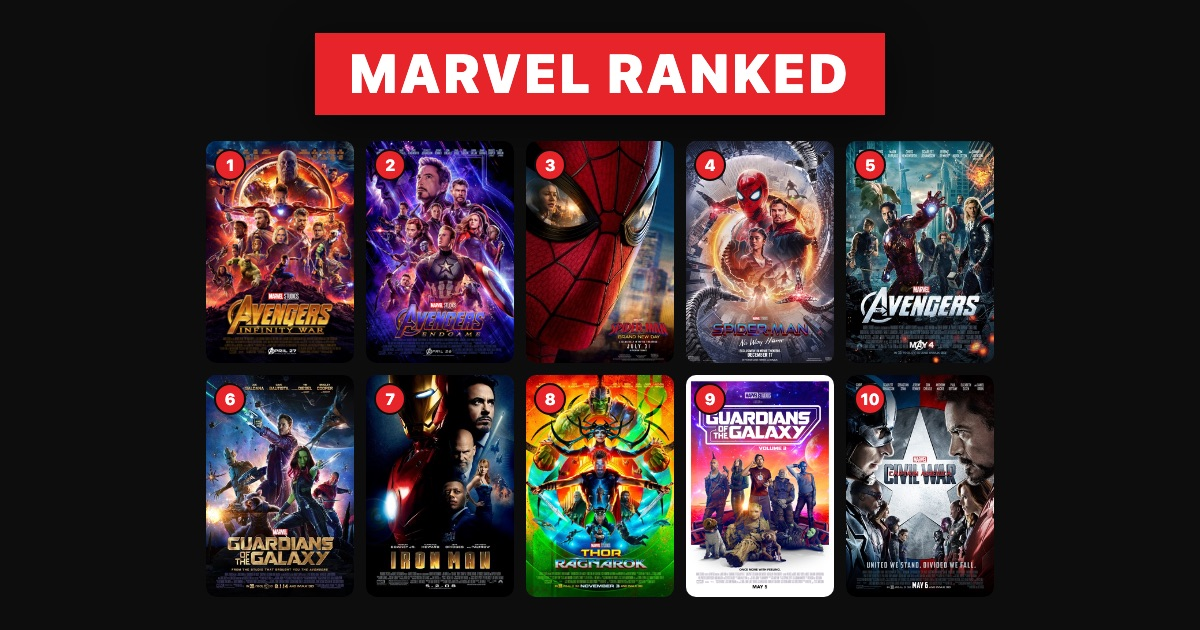
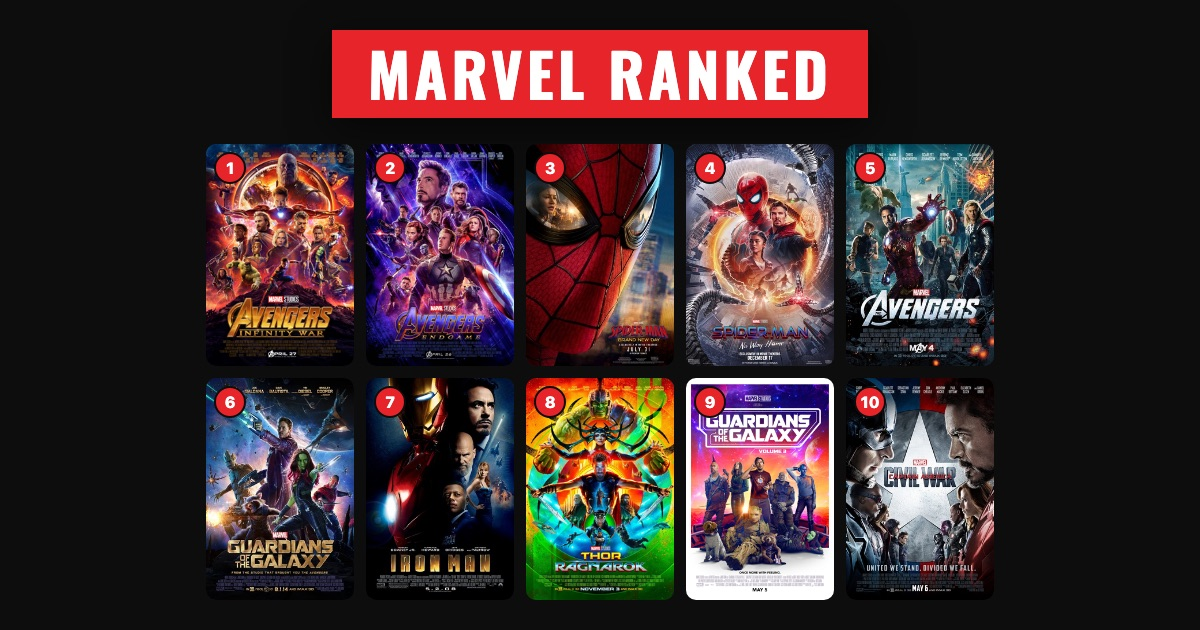
Style pass: display face, capped width, roster in columns
Oswald (OFL, latin subset, 21KB) is self-hosted for the wordmark, tabs,
headings and display numbers; data cells stay on the system font for its
tabular figures. The page caps at 1440px, the character rosters flow into
columns with a drag hit-test that reads in reading order, and each row puts
the actor under the name instead of across the row from it.

Changed region(s): [[0.1542, 0.0302, 0.8325, 0.9651]]

diff --git a/styles.css b/styles.css
@@ -1,5 +1,17 @@
 * { margin: 0; padding: 0; box-sizing: border-box; }
 
+/* Oswald (SIL Open Font License), latin subset, self-hosted: the site has no
+   build step and no CDN, and a condensed face is what carries the comic-book
+   feel in the wordmark and headings. Data cells stay on the system font,
+   whose tabular figures keep score columns aligned. */
+@font-face {
+  font-family: "Oswald";
+  src: url("fonts/oswald-latin.woff2") format("woff2");
+  font-weight: 400 700;
+  font-style: normal;
+  font-display: swap;
+}
+
 :root {
   color-scheme: dark;
   --page: #0d0d0d;
@@ -12,6 +24,7 @@
   --border: rgba(255, 255, 255, 0.10);
   --track: #262625;
   --marvel-red: #e62429;
+  --display: "Oswald", "Haettenschweiler", "Arial Narrow", system-ui, sans-serif;
 }
 
 body {
@@ -21,12 +34,25 @@ body {
   line-height: 1.5;
 }
 
-.wrap { margin: 0 auto; padding: 32px 48px 80px; }
+/* Anything that answers a pointer answers at the same speed, and keyboard
+   users get a ring the mouse never shows. */
+button, a, .card, .row .cellbox, .tile, .segbtn, .avgchip {
+  transition: filter 0.12s ease, color 0.12s ease, background-color 0.12s ease,
+    border-color 0.12s ease;
+}
+:focus-visible { outline: 2px solid var(--marvel-red); outline-offset: 2px; border-radius: 4px; }
+@media (prefers-reduced-motion: reduce) {
+  *, *::before, *::after { transition-duration: 0.01ms !important; animation-duration: 0.01ms !important; }
+}
+
+/* Cap the page so the layout stops sprawling on wide monitors — the
+   per-view widths below then read as deliberate rather than arbitrary. */
+.wrap { max-width: 1440px; margin: 0 auto; padding: 32px 48px 80px; }
 
 /* Hero header: poster-collage banner with the title centered on top */
 header.site {
   position: relative; display: flex; align-items: center; justify-content: center;
-  min-height: 190px; border-radius: 14px; overflow: hidden;
+  min-height: 190px; border-radius: 12px; overflow: hidden;
   border: 1px solid var(--border); background: #131318;
 }
 .hero-bg {
@@ -43,11 +69,12 @@ header.site::after {
 header.site h1 {
   position: relative; z-index: 2; text-align: center;
   background: var(--marvel-red); color: #fff;
-  font-size: 40px; font-weight: 900; text-transform: uppercase;
-  letter-spacing: 0.06em; line-height: 1.1; padding: 8px 26px 10px;
+  font-family: var(--display);
+  font-size: 44px; font-weight: 700; text-transform: uppercase;
+  letter-spacing: 0.07em; line-height: 1.15; padding: 6px 28px 8px;
   box-shadow: 0 10px 40px rgba(0, 0, 0, 0.6);
 }
-@media (max-width: 700px) { header.site h1 { font-size: 26px; padding: 6px 16px 8px; } }
+@media (max-width: 700px) { header.site h1 { font-size: 28px; padding: 4px 16px 6px; } }
 
 /* Account chip: sits on the hero banner, above the poster collage */
 .account {
@@ -71,15 +98,28 @@ header.site h1 {
 nav.tabs { display: flex; gap: 4px; margin: 24px 0 20px; border-bottom: 1px solid var(--grid); flex-wrap: wrap; }
 nav.tabs button {
   background: none; border: none; border-bottom: 2px solid transparent;
-  padding: 8px 14px; font-size: 14px; color: var(--text-secondary); cursor: pointer;
+  padding: 8px 14px; color: var(--text-secondary); cursor: pointer;
+  font-family: var(--display); font-size: 15px; letter-spacing: 0.02em;
 }
 nav.tabs button:hover { color: var(--text-primary); }
 nav.tabs button.active { color: var(--text-primary); border-bottom-color: var(--text-primary); font-weight: 600; }
 
 /* Ranking rows — spreadsheet-style colored cells */
 .panel { background: var(--surface); border: 1px solid var(--border); border-radius: 12px; padding: 18px; }
-.panel h2 { font-size: 16px; margin-bottom: 12px; }
-.panel h2 .note { font-weight: 400; font-size: 13px; color: var(--text-muted); }
+/* Headings carry a title, action chips and a note; laid out inline they broke
+   mid-phrase and split the chip group. As a wrapping flex row the chips stay
+   together, and a note that shares its heading with buttons takes its own
+   line instead of threading between them. */
+.panel h2 {
+  display: flex; flex-wrap: wrap; align-items: baseline; gap: 4px 8px;
+  font-family: var(--display); font-size: 18px; font-weight: 600;
+  letter-spacing: 0.01em; margin-bottom: 12px;
+}
+.panel h2:has(button) .note { flex-basis: 100%; }
+.panel h2 .note {
+  font-family: system-ui, -apple-system, "Segoe UI", sans-serif;
+  font-weight: 400; font-size: 13px; color: var(--text-muted);
+}
 .row {
   display: grid; grid-template-columns: 30px 1fr;
   gap: 8px; align-items: center; padding: 2px 0; font-size: 14px;
@@ -269,13 +309,13 @@ button.cardbtn:hover { color: var(--text-primary); }
 @media (max-width: 600px) { .tiles { grid-template-columns: repeat(2, 1fr); } }
 .tile { background: var(--surface); border: 1px solid var(--border); border-radius: 12px; padding: 14px 16px; }
 .tile .label { font-size: 12px; color: var(--text-muted); }
-.tile .value { font-size: 26px; font-weight: 600; line-height: 1.25; margin: 2px 0; }
+.tile .value { font-family: var(--display); font-size: 30px; font-weight: 600; line-height: 1.2; margin: 2px 0; }
 .tile .sub { font-size: 12px; color: var(--text-secondary); display: flex; align-items: center; gap: 6px; }
 .tile .sub .dot { width: 8px; height: 8px; border-radius: 50%; flex-shrink: 0; }
 
 /* Streaks: the run itself, as the posters, with each film's score on it */
 .runstrip { display: flex; flex-wrap: wrap; gap: 6px; margin-top: 8px; }
-.runstrip figure { position: relative; width: 58px; border-radius: 7px; overflow: hidden; }
+.runstrip figure { position: relative; width: 58px; border-radius: 6px; overflow: hidden; }
 .runstrip img, .runstrip .noimg {
   display: block; width: 100%; aspect-ratio: 2 / 3; object-fit: cover; background: #1c1c24;
 }
@@ -293,7 +333,7 @@ button.cardbtn:hover { color: var(--text-primary); }
 
 /* How you grade: the two spreads side by side, then the biggest disagreement */
 .gradepair { display: flex; gap: 28px; margin: 4px 0 8px; }
-.gradepair .big { font-size: 26px; font-weight: 600; display: block; line-height: 1.25; }
+.gradepair .big { font-family: var(--display); font-size: 30px; font-weight: 600; display: block; line-height: 1.2; }
 .gradepair .sub { font-size: 12px; color: var(--text-muted); }
 .taker { display: flex; align-items: center; gap: 10px; margin-top: 8px; }
 .taker img { width: 42px; aspect-ratio: 2 / 3; object-fit: cover; border-radius: 6px; flex-shrink: 0; }
@@ -365,22 +405,30 @@ button.cardbtn:hover { color: var(--text-primary); }
 .phase-block h3 .note { font-weight: 400; color: var(--text-muted); }
 
 /* Hand-ranked rosters — Spider-Man, Heroes, Villains: group-colored picture
-   cards, drag to reorder */
-.rosterwrap { max-width: 560px; margin: 0 auto; }
-.rosterlist { display: grid; gap: 6px; }
-.rosterrow { display: grid; grid-template-columns: 36px 1fr 18px; gap: 8px; align-items: center; }
+   cards, drag to reorder. Fifty-seven heroes in one column is 4,800px of
+   scrolling with most of a desktop screen empty, so the list flows into
+   columns as the window allows; the drag hit-test handles the grid. */
+.rosterwrap { max-width: 1180px; margin: 0 auto; }
+.rosterlist { display: grid; gap: 6px; grid-template-columns: minmax(0, 1fr); }
+@media (min-width: 860px) { .rosterlist { grid-template-columns: repeat(2, minmax(0, 1fr)); } }
+@media (min-width: 1240px) { .rosterlist { grid-template-columns: repeat(3, minmax(0, 1fr)); } }
+.rosterrow { display: grid; grid-template-columns: 30px 1fr 18px; gap: 8px; align-items: center; }
 .rosterrow .rank {
-  text-align: right; font-size: 18px; font-weight: 800;
+  text-align: right; font-family: var(--display); font-size: 20px; font-weight: 600;
   color: var(--text-muted); font-variant-numeric: tabular-nums;
 }
+/* Name over actor: pinned to opposite ends of a wide row they read as two
+   unrelated columns. */
+.rosterrow .card .meta { flex: 1; min-width: 0; padding: 4px 0; }
+.rosterrow .card .name { display: block; white-space: normal; }
 .rosterrow .card .era {
-  font-size: 11px; font-weight: 600; margin-right: 10px; text-align: right;
-  max-width: 40%; overflow: hidden; text-overflow: ellipsis; white-space: nowrap;
+  display: block; font-size: 11px; font-weight: 600; color: var(--text-muted);
+  overflow: hidden; text-overflow: ellipsis; white-space: nowrap;
 }
 .rosterrow.dragging .card { outline: 2px dashed rgba(255, 255, 255, 0.55); }
 /* Character portraits are near-4:3 tall and lead with a face — give them a
    wider cell than a poster so they aren't cropped to a sliver */
-.rosterlist.portraits .card img { width: 58px; aspect-ratio: 3 / 4; }
+.rosterlist.portraits .card img { width: 48px; aspect-ratio: 3 / 4; }
 /* Group color key under a character roster */
 .rosterkey { display: inline-flex; flex-wrap: wrap; gap: 4px 10px; margin-left: 4px; }
 .rosterkey span { display: inline-flex; align-items: center; gap: 4px; white-space: nowrap; }
@@ -403,8 +451,8 @@ button.cardbtn:hover { color: var(--text-primary); }
    footer, which is a note to the site's owner rather than to a visitor */
 body.showcase-on nav.tabs, body.showcase-on footer { display: none; }
 .showcase-sub {
-  text-align: center; color: var(--text-muted);
-  font-size: 12px; font-weight: 700; letter-spacing: 0.16em; margin-bottom: 16px;
+  text-align: center; color: var(--text-muted); font-family: var(--display);
+  font-size: 14px; font-weight: 600; letter-spacing: 0.18em; margin-bottom: 16px;
 }
 .showcase figure {
   position: relative; border-radius: 10px; overflow: hidden; background: #1c1c24;
@@ -429,7 +477,8 @@ body.showcase-on nav.tabs, body.showcase-on footer { display: none; }
 .showcase-cta { text-align: center; margin-top: 26px; }
 .showcase-cta button {
   background: var(--marvel-red); color: #fff; border: none; border-radius: 999px;
-  font: inherit; font-size: 15px; font-weight: 700; padding: 10px 28px; cursor: pointer;
+  font: 600 16px/1.4 var(--display); letter-spacing: 0.03em;
+  padding: 10px 28px; cursor: pointer;
 }
 .showcase-cta button:hover { filter: brightness(1.1); }
 .showcase-cta .fineprint { margin-top: 12px; }

diff --git a/app.js b/app.js
@@ -287,12 +287,15 @@ const isUpcomingShow = (t) => /season\b/i.test(t) || UPCOMING_SHOW_HINTS.include
 // blue 7, indigo 8 — with purple at 9 and pink reserved for perfect 10s.
 // Every tier boundary is a clear hue change rather than a subtle shade shift.
 // Ink is chosen per step for contrast.
+// A rainbow can't also run light-to-dark, so hue alone can't say "higher".
+// The yellows were the brightest cells on the page at 3 and 4, shouting over
+// the 9s and 10s; they're toned down so the top of the scale stays loudest.
 const RATING_COLORS = [
   { bg: "#7f1d1d", ink: "#ffffff" }, // 0  dark red
   { bg: "#cf3535", ink: "#ffffff" }, // 1  red
   { bg: "#ef8146", ink: "#1a1a19" }, // 2  orange
-  { bg: "#f9cb5f", ink: "#1a1a19" }, // 3  yellow
-  { bg: "#c9c353", ink: "#1a1a19" }, // 4  yellow-green
+  { bg: "#e8b84f", ink: "#1a1a19" }, // 3  yellow
+  { bg: "#b8b04a", ink: "#1a1a19" }, // 4  yellow-green
   { bg: "#3cbb54", ink: "#1a1a19" }, // 5  bright green
   { bg: "#5aa7e6", ink: "#1a1a19" }, // 6  light blue
   { bg: "#2a78d6", ink: "#ffffff" }, // 7  blue
@@ -495,11 +498,18 @@ function makeDraggable(containers, onCommit) {
             return !best || d < best.d ? { z, d } : best;
           }, null).z;
         }
-        const candidates = [...target.children].filter((c) => c !== row && !c.classList.contains("fixed"));
-        const next = candidates.find((c) => {
-          const b = c.getBoundingClientRect();
-          return ev.clientY < b.top + b.height / 2;
-        }) ?? null;
+        const candidates = [...target.children]
+          .filter((c) => c !== row && !c.classList.contains("fixed"))
+          .map((c) => ({ c, b: c.getBoundingClientRect() }));
+        // A list laid out in columns needs the pointer read in reading order:
+        // a row further down always comes later, and within the same band the
+        // one to the right does. Single-column lists have no second column to
+        // confuse, so they keep the plain midpoint test.
+        const columns = candidates.some(({ b }, i) => i && Math.abs(b.top - candidates[i - 1].b.top) < 2);
+        const next = (candidates.find(({ b }) => columns
+          ? b.top + b.height / 2 - ev.clientY > b.height / 2 ||
+            (Math.abs(b.top + b.height / 2 - ev.clientY) <= b.height / 2 && b.left + b.width / 2 > ev.clientX)
+          : ev.clientY < b.top + b.height / 2)?.c) ?? null;
         if (row.parentElement !== target || next !== row.nextElementSibling) target.insertBefore(row, next);
       };
       const finish = (ev) => {
@@ -1502,8 +1512,10 @@ function renderRoster(cfg) {
           <span class="rank">${i + 1}</span>
           <div class="card" style="--phase:${e.color}">
             ${e.img ? `<img src="${e.img}" alt="" loading="lazy">` : `<span class="noimg">${e.name.slice(0, 2).toUpperCase()}</span>`}
-            <span class="name">${e.name}</span>
-            <span class="era" style="color:${e.color}">${e.sub}</span>
+            <span class="meta">
+              <span class="name">${e.name}</span>
+              <span class="era">${e.sub}</span>
+            </span>
           </div>
           <span class="grip" title="drag to reorder">⠿</span>
         </div>`;

diff --git a/scripts/og-card.html b/scripts/og-card.html
@@ -20,6 +20,13 @@
   <meta charset="UTF-8">
   <meta name="referrer" content="no-referrer">
   <style>
+    /* Same self-hosted face as the site, so the preview card and the page a
+       visitor lands on carry the same wordmark. */
+    @font-face {
+      font-family: "Oswald";
+      src: url("../fonts/oswald-latin.woff2") format("woff2");
+      font-weight: 400 700;
+    }
     * { margin: 0; padding: 0; box-sizing: border-box; }
     html, body { width: 1200px; height: 630px; overflow: hidden; }
     body {
@@ -30,8 +37,9 @@
     }
     h1 {
       background: #e62429; color: #fff; text-align: center;
-      font-size: 54px; font-weight: 900; text-transform: uppercase;
-      letter-spacing: 0.06em; line-height: 1.1; padding: 10px 34px 13px;
+      font-family: "Oswald", system-ui, sans-serif;
+      font-size: 60px; font-weight: 700; text-transform: uppercase;
+      letter-spacing: 0.07em; line-height: 1.15; padding: 8px 36px 11px;
       box-shadow: 0 10px 40px rgba(0, 0, 0, 0.6);
     }
     .rows { display: grid; gap: 12px; }
